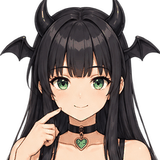
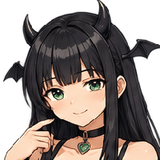
[#1081] I03: みんと通常を斜め向き（旧採用）へ復元
オーナー判断（2026-10-28）に基づき、コンカフェ通常を正面寄りv4から旧採用の斜め向き（asset_sources/portraits/jawline-cleanup/minto-normal-before.png）へ復元。

- 本編PNG差し替え（sha256はbeforeと同一）、配信用WebP再生成（PNGとRGBA一致を確認）
- 顔アイコン face_minto.png を tools/make_face_icons.py minto で再生成（私服アイコンは不変）
- manifest: build_manifest.py --portraits-only minto の再計測で共通framing（h/b/ax/aspect）は不変。continuePortraits の normal のみ顔枠の再計測値へ更新
- URLキャッシュ revision を face-restore-20261028 へ更新（remake/js/core/data.js、テストの期待値も追随）
- 差し替え前のv4本編PNGを asset_sources/portraits/minto-eye-jaw-review/normal-v4-ingame.png に保存し、同READMEへ復元記録を追記。他9表情・私服は未変更
- テスト: data_loading PASS / quick suite 12/12 PASS

diff --git a/remake/js/core/data.js b/remake/js/core/data.js
@@ -204,7 +204,8 @@ export function callName(id, state, opts = {}) {
 // 表示用の軽い WebP（remake/img/・tools/build_images.py が作る）。一覧に無い画像は assets/ の PNG を読む
 let WEBP = new Set();
 // #983で採用した顔修正を、同名URLに残った旧画像のキャッシュと区別する。
-const FACE_CORRECTION_REVISION = "face-line-20261026";
+// 2026-10-28: #1081 I03 でみんと通常を斜め向きへ復元したため revision を更新。
+const FACE_CORRECTION_REVISION = "face-restore-20261028";
 function faceCorrectionVersion(rel) {
   return /^(sprites\/characters\/(minto\/chr_minto_normal|ageha\/chr_ageha_[a-z]+)\.png|ui\/face_icons\/face_(minto|ageha)\.png)$/.test(rel)
     ? `?v=${FACE_CORRECTION_REVISION}` : "";

diff --git a/asset_sources/portraits/minto-eye-jaw-review/README.md b/asset_sources/portraits/minto-eye-jaw-review/README.md
@@ -15,3 +15,9 @@ v4は頭を正面・直立寄りに描き直し、両目の幅・縦の開き・
 他表情は未変更。`smile` は同型の目の左右差が残る修正候補。`sad`・`ura_smug` の半目、`wink` の閉眼は表情なので機械的に開かない。全キャラの結果は [点検一覧](../../../docs/qa/portrait-jawline/audit/README.md)。
 
 v1〜v3、`current-vs-candidate.png`、`normal-face-comparison.png`、`background-comparison.png`、`game-current-*` / `game-candidate-*`、旧 `browser-check.json` / `check-browser.cjs` は**不採用候補の履歴**。現行v4と取り違えない。元の通常は `../jawline-cleanup/minto-normal-before.png`。GitHub接続はForbiddenで、push・PR・公開反映は未実施。
+
+# 2026-10-28 復元記録（#1081 I03・オーナー判断）
+
+オーナー判断により、コンカフェ通常を正面寄り v4 から斜め向きの旧採用画像（`../jawline-cleanup/minto-normal-before.png`）へ復元した。反映先: 本編PNG `assets/sprites/characters/minto/chr_minto_normal.png`（内容は before と同一）、配信用 WebP（再生成し RGBA 一致を確認）、顔アイコン `face_minto.png`（`tools/make_face_icons.py minto` で再生成。私服アイコンは再生成しても同一で不変）。manifest の共通 framing（h/b/ax/aspect）は `build_manifest.py --portraits-only minto` の再計測でも不変で、`continuePortraits` の normal だけ顔枠の再計測値へ更新した。URL キャッシュ revision は `face-restore-20261028` へ更新（`remake/js/core/data.js`）。
+
+差し替え前の v4 本編PNG は `normal-v4-ingame.png` として本フォルダに保存した（生成原画は `normal-v4-source.png`、経緯は上記 v4 の記録）。他9表情・私服・タイトル絵・CG は未変更。黒線（I02）は本記録の対象外。
